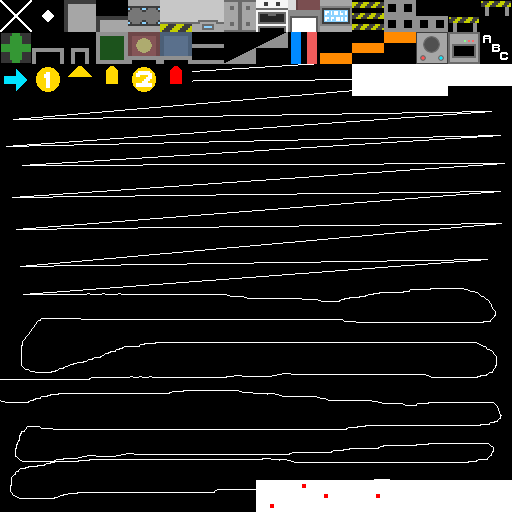
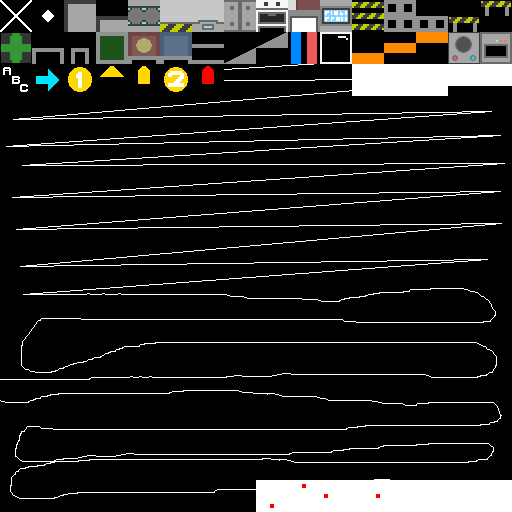
Adding window tile

Changed region(s): [[0.0, 0.125, 0.4375, 0.1875], [0.625, 0.0625, 1.0, 0.125]]

diff --git a/src/BORK_of_DOOM/map_area.c b/src/BORK_of_DOOM/map_area.c
@@ -282,6 +282,23 @@ struct bork_tile_detail BORK_TILE_DETAILS[] = {
         .face_flags = { BORK_FACE_TRAVEL, BORK_FACE_TRAVEL, BORK_FACE_TRAVEL,
                         BORK_FACE_TRAVEL, BORK_FACE_TRAVEL, BORK_FACE_TRAVEL },
         .add_model = tile_model_pipes },
+    [BORK_TILE_WINDOW] = { .name = "WINDOW",
+        .tile_flags = BORK_TILE_HAS_ORIENTATION | BORK_TILE_FACE_ORIENTED,
+        .face_flags = { BORK_FACE_HAS_SURFACE | BORK_FACE_FLUSH_SURFACE |
+                            BORK_FACE_HAS_BACKFACE | BORK_FACE_SEETHRU_SURFACE |
+                            BORK_FACE_TRAVEL_ORIENT_OPP,
+                        BORK_FACE_HAS_SURFACE | BORK_FACE_FLUSH_SURFACE |
+                            BORK_FACE_HAS_BACKFACE | BORK_FACE_SEETHRU_SURFACE |
+                            BORK_FACE_TRAVEL_ORIENT_OPP,
+                        BORK_FACE_HAS_SURFACE | BORK_FACE_FLUSH_SURFACE |
+                            BORK_FACE_HAS_BACKFACE | BORK_FACE_SEETHRU_SURFACE |
+                            BORK_FACE_TRAVEL_ORIENT_OPP,
+                        BORK_FACE_HAS_SURFACE | BORK_FACE_FLUSH_SURFACE |
+                            BORK_FACE_HAS_BACKFACE | BORK_FACE_SEETHRU_SURFACE |
+                            BORK_FACE_TRAVEL_ORIENT_OPP, 0, 0 },
+        .tex_tile = { [PG_LEFT] = 48, [PG_RIGHT] = 48,
+                      [PG_FRONT] = 48, [PG_BACK] = 48 },
+        .add_model = tile_model_basic },
     [BORK_TILE_EDITOR_DOOR] = { .name = "DOOR",
         .tile_flags = BORK_TILE_HAS_ORIENTATION },
     [BORK_TILE_EDITOR_RECYCLER] = { .name = "RECYCLER",
@@ -344,6 +361,21 @@ void bork_map_init_model(struct bork_map* map, struct bork_editor_map* ed_map,
     pg_model_rect_prism(&map->door_model, (vec3){ 1, 0.125, 1 }, face_uv);
     pg_model_precalc_ntb(&map->door_model);
     pg_shader_buffer_model(&core->shader_3d, &map->door_model);
+    /*  And the window model  */
+    pg_model_init(&map->window_model);
+    pg_texture_get_frame(&core->env_atlas, 48, face_uv[PG_FRONT]);
+    pg_texture_frame_flip(face_uv[PG_BACK], face_uv[PG_FRONT], 0, 1);
+    pg_texture_get_frame(&core->env_atlas, 48, face_uv[PG_TOP]);
+    pg_texture_frame_tx(face_uv[PG_TOP], face_uv[PG_TOP],
+                        (vec2){ 1, 0.125 }, (vec2){ 0, 32.0f / 512.0f });
+    pg_texture_frame_flip(face_uv[PG_BOTTOM], face_uv[PG_TOP], 0, 1);
+    pg_texture_get_frame(&core->env_atlas, 48, face_uv[PG_LEFT]);
+    pg_texture_frame_tx(face_uv[PG_LEFT], face_uv[PG_LEFT],
+                        (vec2){ 0.125, 1 }, (vec2){ 32.0f / 512.0f, 0 });
+    pg_texture_frame_flip(face_uv[PG_RIGHT], face_uv[PG_LEFT], 0, 1);
+    pg_model_rect_prism(&map->window_model, (vec3){ 1, 0.125, 1 }, face_uv);
+    pg_model_precalc_ntb(&map->window_model);
+    pg_shader_buffer_model(&core->shader_3d, &map->window_model);
     /*  And the recombobulator model  */
     pg_model_init(&map->recycler_model);
     pg_texture_get_frame(&core->env_atlas, 51, face_uv[PG_FRONT]);
@@ -1682,4 +1714,3 @@ static int tile_model_pipes(struct bork_map* map, struct bork_editor_map* ed_map
     pg_model_append(&map->model, &map->pipes_model, model_transform);
     return 24;
 }
-

diff --git a/src/BORK_of_DOOM/map_area.h b/src/BORK_of_DOOM/map_area.h
@@ -58,6 +58,7 @@ enum bork_tile_type {
     BORK_TILE_DUCT,
     BORK_TILE_RAMP_BOTTOM, BORK_TILE_RAMP_TOP,
     BORK_TILE_PIPES,
+    BORK_TILE_WINDOW,
     BORK_TILE_EDITOR_FIRE_LOW,
     BORK_TILE_EDITOR_FIRE_MID,
     BORK_TILE_EDITOR_FIRE_HIGH,
@@ -158,6 +159,7 @@ struct bork_map {
     ARR_T(struct pg_light) lights;
     ARR_T(struct pg_light) spotlights;
     struct pg_model door_model;
+    struct pg_model window_model;
     struct pg_model recycler_model;
     struct pg_model oven_model;
     struct pg_model bed_model;
